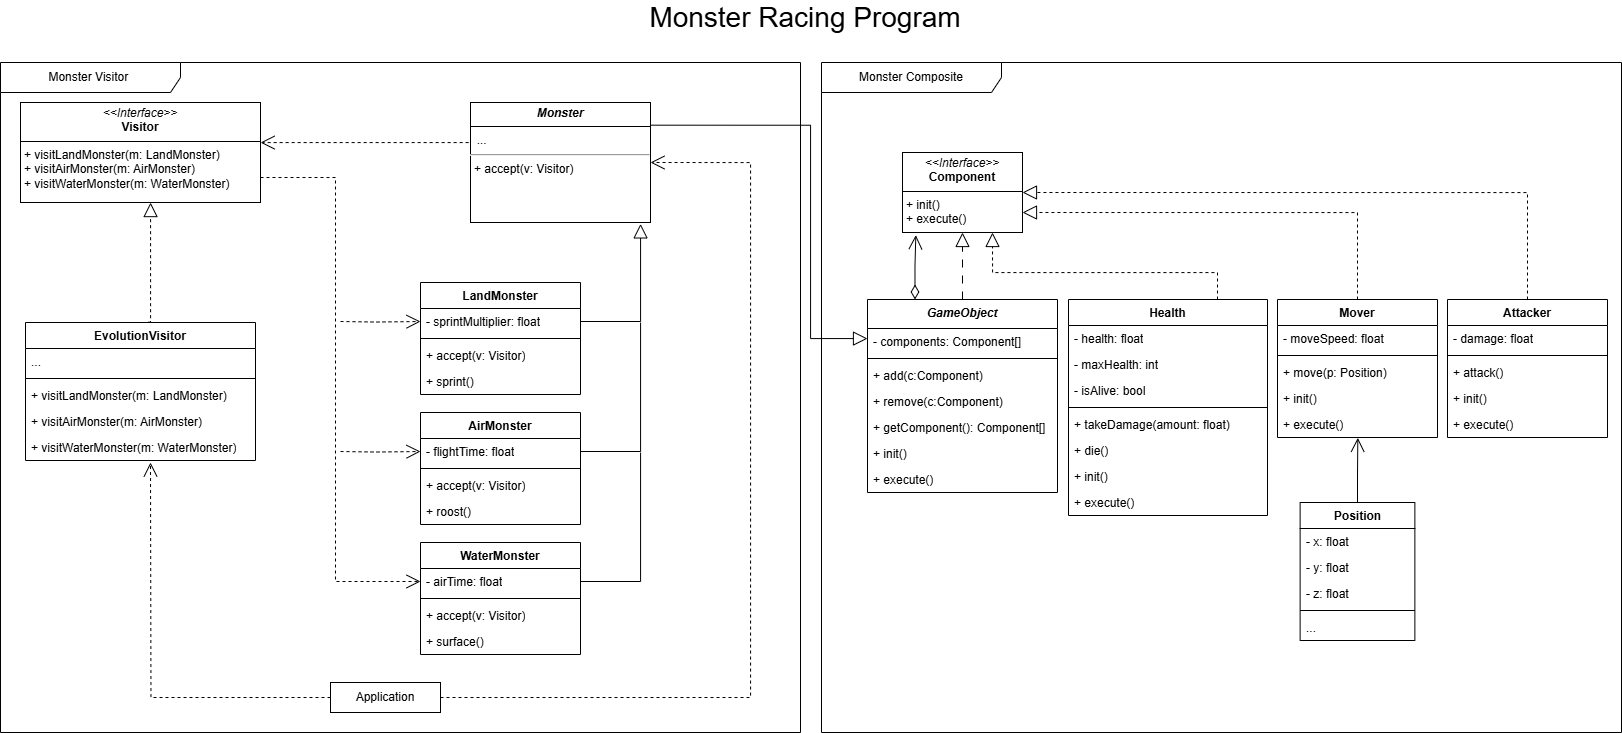
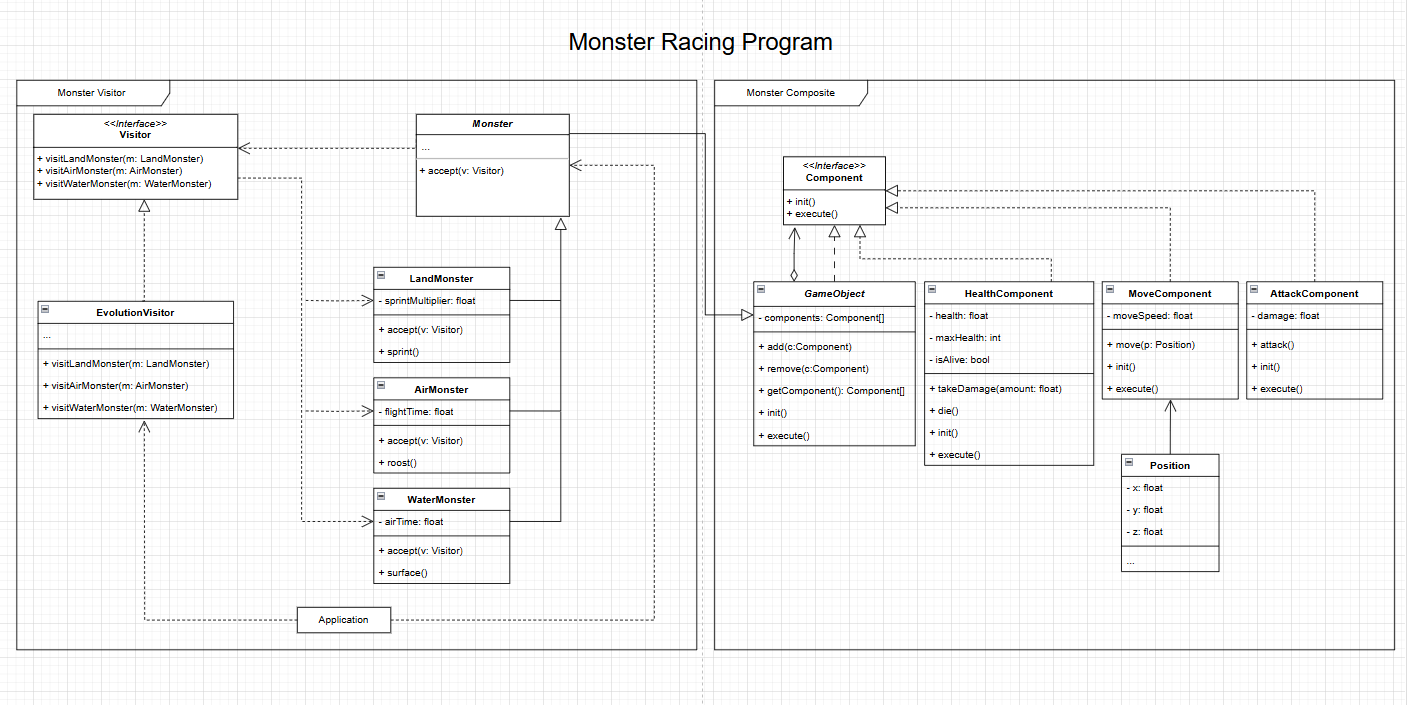
health component

diff --git a/src/composite/GameObject.cpp b/src/composite/GameObject.cpp
@@ -11,6 +11,7 @@ GameObject::~GameObject() {
   // delete dynamically allocated components
   for(IComponent* c : mComponents){
     delete c;
+    c = nullptr;
   }
 }
 
@@ -19,10 +20,17 @@ GameObject::~GameObject() {
 void GameObject::add(IComponent* c) {
   if(c == nullptr) return;
 
+  // do not add if the component is a GameObject
+  if(c->getComponentType() == ComponentType::GameObject) {
+    std::cout << "add: GameObjects cannot have GameObject components" << std::endl;
+    return;
+  }
+
   // only add if component of same type does not exist yet
   for(IComponent* component : mComponents) {
     // already exists; do not add
     if(component->getComponentType() == c->getComponentType()) {
+      std::cout << "add: GameObject already has this component" << std::endl;
       return;
     } 
   }
@@ -41,6 +49,24 @@ void GameObject::remove(IComponent* c) {
     // erase from new end to actual end
     mComponents.erase(it, mComponents.end());
   }
+  else {
+    std::cout << "remove: Could not find the component to remove" << std::endl;
+  }
+}
+
+IComponent* GameObject::getComponentByType(ComponentType type) const
+{
+  IComponent* c = nullptr;
+
+  // search components for matching component type
+  for(IComponent* component : mComponents) {
+    if(component != nullptr && component->getComponentType() == type) {
+      c = component;
+      break;
+    }
+  }
+
+  return c;
 }
 
 /// @brief Function that runs once when component is first initialized.
@@ -67,6 +93,8 @@ void GameObject::execute() {
   }
 }
 
+/// @brief Retrieves this component's type.
+/// @return The component's type.
 IComponent::ComponentType GameObject::getComponentType() const
 {
   return ComponentType::GameObject;

diff --git a/src/composite/IComponent.h b/src/composite/IComponent.h
@@ -1,24 +1,24 @@
 #pragma once
 
 class IComponent{
-  protected:
-    enum class ComponentType {
-      GameObject,
-      Health,
-      Mover,
-      Attacker
-    };
+protected:
+  enum class ComponentType {
+    GameObject,
+    Health,
+    Movement,
+    Attack
+  };
 
-  public:
-    virtual ~IComponent() {}
+public:
+  virtual ~IComponent() {}
 
-    /// @brief Function that runs once when component is first initialized.
-    virtual void init() = 0;
+  /// @brief Function that runs once when component is first initialized.
+  virtual void init() = 0;
 
-    /// @brief Function that runs every frame.
-    virtual void execute() = 0;
+  /// @brief Function that runs every frame.
+  virtual void execute() = 0;
 
-    /// @brief Retrieves the component's unique identifier.
-    /// @return Enum identifier for class.
-    virtual ComponentType getComponentType() const = 0;
+  /// @brief Retrieves the component's unique identifier.
+  /// @return Enum identifier for class.
+  virtual ComponentType getComponentType() const = 0;
 };

diff --git a/src/composite/HealthComponent.cpp b/src/composite/HealthComponent.cpp
@@ -1,0 +1,50 @@
+#include "HealthComponent.h"
+
+#include <iostream>
+
+HealthComponent::HealthComponent(float maxHealth): 
+mMaxHealth(maxHealth), mHealth(0.0f), mIsAlive(true) {
+
+}
+
+HealthComponent::~HealthComponent() {
+
+}
+
+void HealthComponent::restoreHealth(float amount) {
+  if(amount < 0.0f) return;
+
+  mHealth += amount;
+  if(mHealth > mMaxHealth) {
+    mHealth = mMaxHealth;
+  }
+}
+
+void HealthComponent::takeDamage(float amount) {
+  if(amount < 0.0f) return;
+
+  mHealth -= amount;
+  if(mHealth < 0.0f){
+    mHealth = 0.0f;
+    die();
+  }
+}
+
+void HealthComponent::die() {
+  std::cout << "This GameObject has died." << std::endl;
+  mIsAlive = false;
+}
+
+void HealthComponent::init() {
+  std::cout << "Running Health Component's init..." << std::endl;
+  mHealth = mMaxHealth;
+}
+
+void HealthComponent::execute() {
+  std::cout << "Running Health Component's execute..." << std::endl;
+}
+
+IComponent::ComponentType HealthComponent::getComponentType() const
+{
+  return ComponentType::Health;
+}

diff --git a/src/composite/HealthComponent.h b/src/composite/HealthComponent.h
@@ -1,0 +1,25 @@
+#pragma once
+
+#include "IComponent.h"
+
+class HealthComponent : public IComponent {
+private:
+  float mHealth;
+  float mMaxHealth;
+  bool mIsAlive;
+
+public:
+  HealthComponent(float maxHealth);  // ctor
+  ~HealthComponent(); // dtor
+
+  inline float getHealth() const { return mHealth; }  // get health
+  inline bool isAlive() const { return mIsAlive; }    // get is alive
+
+  void restoreHealth(float amount);   // increase health
+  void takeDamage(float amount);      // decrease health
+  void die();                         // health <= 0
+
+  void init() override;                             // runs once at start
+  void execute() override;                          // runs every frame
+  ComponentType getComponentType() const override;  // gets type = Health
+};

diff --git a/src/main.cpp b/src/main.cpp
@@ -1,6 +1,7 @@
 #include <iostream>
 
 #include "composite/GameObject.h"
+#include "composite/HealthComponent.h"
 
 
 int main()
@@ -10,11 +11,24 @@ int main()
   std::cout << "Hello C++ World from VS Code!" << std::endl;
 
   // make a game object
-  GameObject* go1 = new GameObject();
-  go1->init();
-  go1->execute();
+  GameObject go1 = GameObject();
 
-  delete go1;
+  // testing game object
+  GameObject go2 = GameObject();
+  go1.add(&go2);
+  go1.remove(&go2);
+
+  // new health component
+  HealthComponent* health = new HealthComponent(10);
+  std::cout << "Health: " << health->getHealth() << std::endl;
+
+  go1.add(health);
+  go1.add(health);
+
+  // run methods
+  go1.init();
+  std::cout << "Health: " << health->getHealth() << std::endl;
+  go1.execute();
 
   return 0;
 }

diff --git a/src/composite/GameObject.h b/src/composite/GameObject.h
@@ -8,6 +8,7 @@ class GameObject : public IComponent
 {
 private:
   std::vector<IComponent*> mComponents;
+
 public:
   GameObject();   // ctor
   ~GameObject();  // dtor
@@ -15,8 +16,9 @@ public:
   void add(IComponent* c);    // add component
   void remove(IComponent* c); // remove component
   inline std::vector<IComponent*> getComponents() const { return mComponents; }
+  IComponent* getComponentByType(ComponentType type) const;
 
   virtual void init() override;     // runs on start
   virtual void execute() override;  // runs every frame
-  virtual ComponentType getComponentType() const override;
+  virtual ComponentType getComponentType() const override;  // gets type = GameObject
 };
